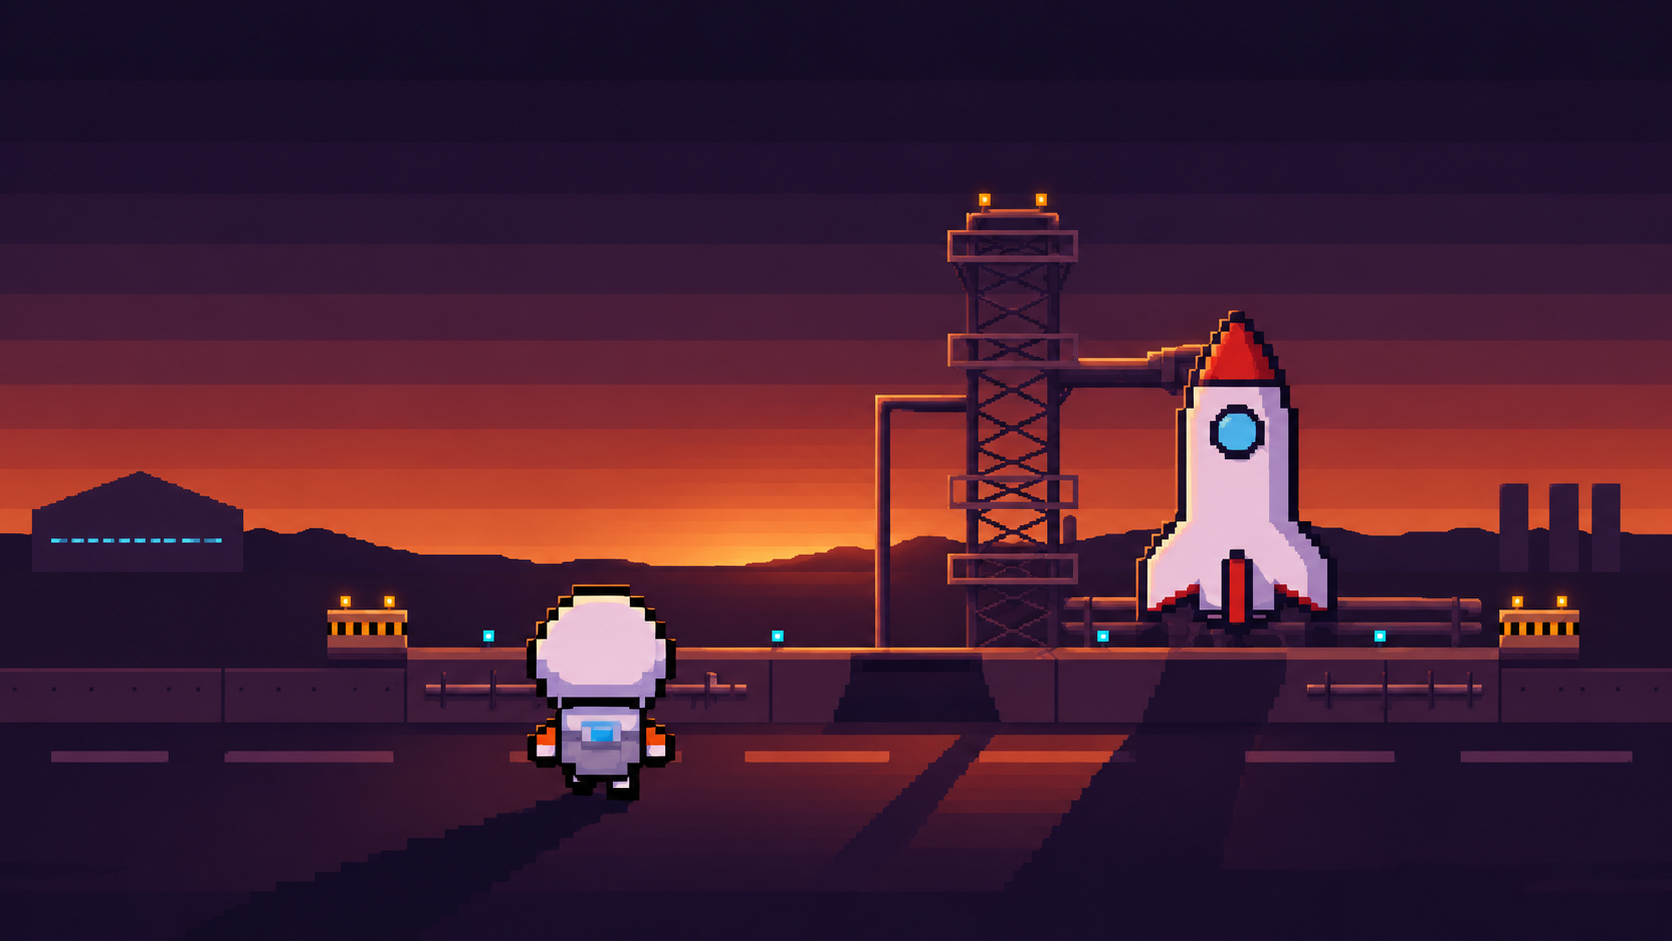
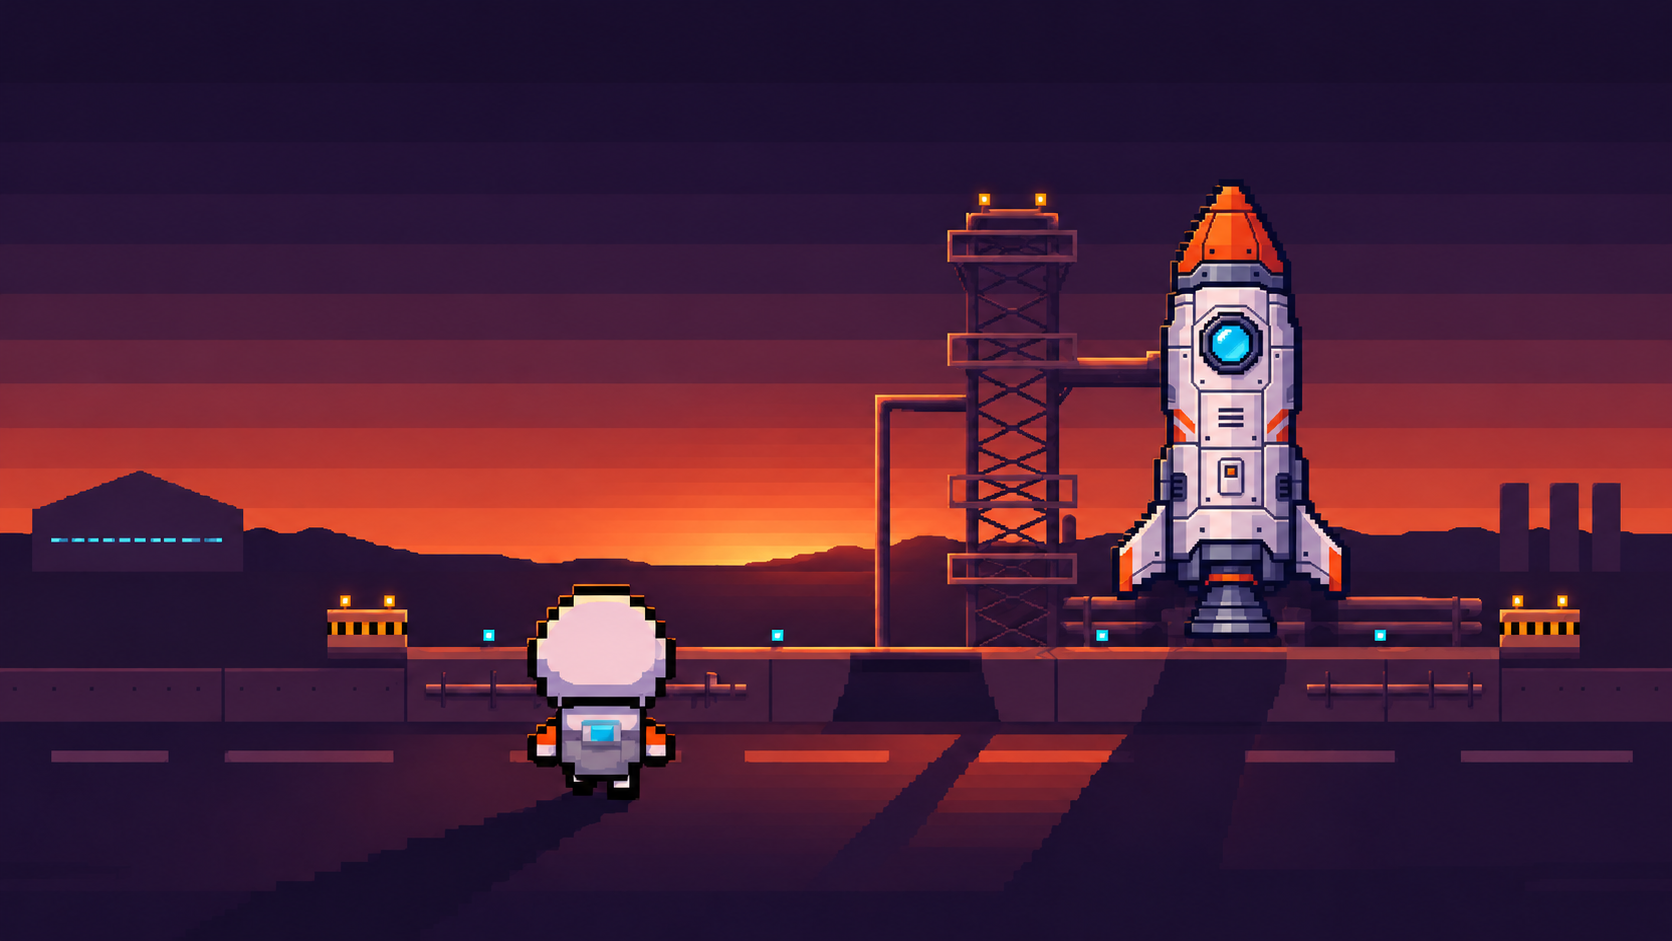
Replace rocket artwork assets

diff --git a/tests/RocketLaunchTest.cs b/tests/RocketLaunchTest.cs
@@ -169,8 +169,12 @@ public partial class RocketLaunchTest : Node
         await Load(); await Capture("ready");
         Check(launch.GetNode<Background>("Background").Texture.ResourcePath.EndsWith("launching_background.jpeg"),
             "Launch-site background is used");
-        Check(launch.GetNode<Sprite2D>("Rocket/Rocket").Texture.ResourcePath.EndsWith("rocket_sprite.png"),
-            "Existing rocket sprite is preserved");
+        var launchRocketSprite = launch.GetNode<Sprite2D>("Rocket/Rocket");
+        Check(launchRocketSprite.Texture.ResourcePath.EndsWith("rocket_sprite.png") &&
+            launchRocketSprite.Texture.GetWidth() == 952 && launchRocketSprite.Texture.GetHeight() == 1599 &&
+            Mathf.IsEqualApprox(launchRocketSprite.Scale.X, 0.19275205f) &&
+            Mathf.IsEqualApprox(launchRocketSprite.Scale.Y, 0.21775326f),
+            "Replacement rocket sprite preserves native resolution and launch-scale alignment");
         Check(launch.GetNode<Control>("IntroUI/Briefing").Visible && !launch.GetNode<Control>("IntroUI/Panel").Visible,
             "Launch Pad shows a compact ready dialog");
         var launchBriefing = launch.GetNode<PanelContainer>("IntroUI/Briefing");
